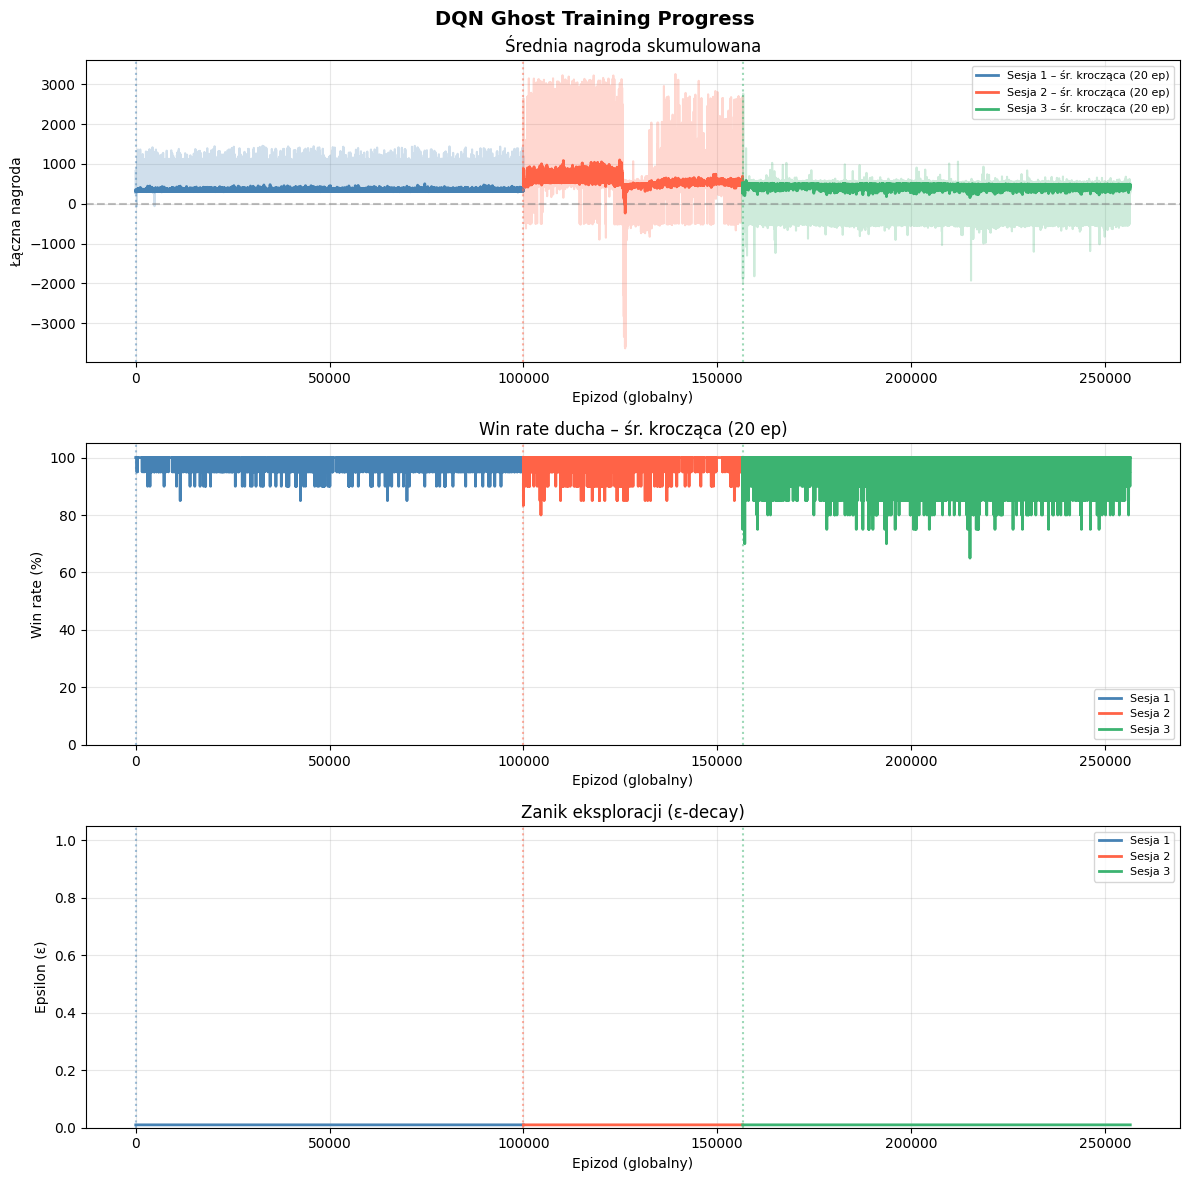
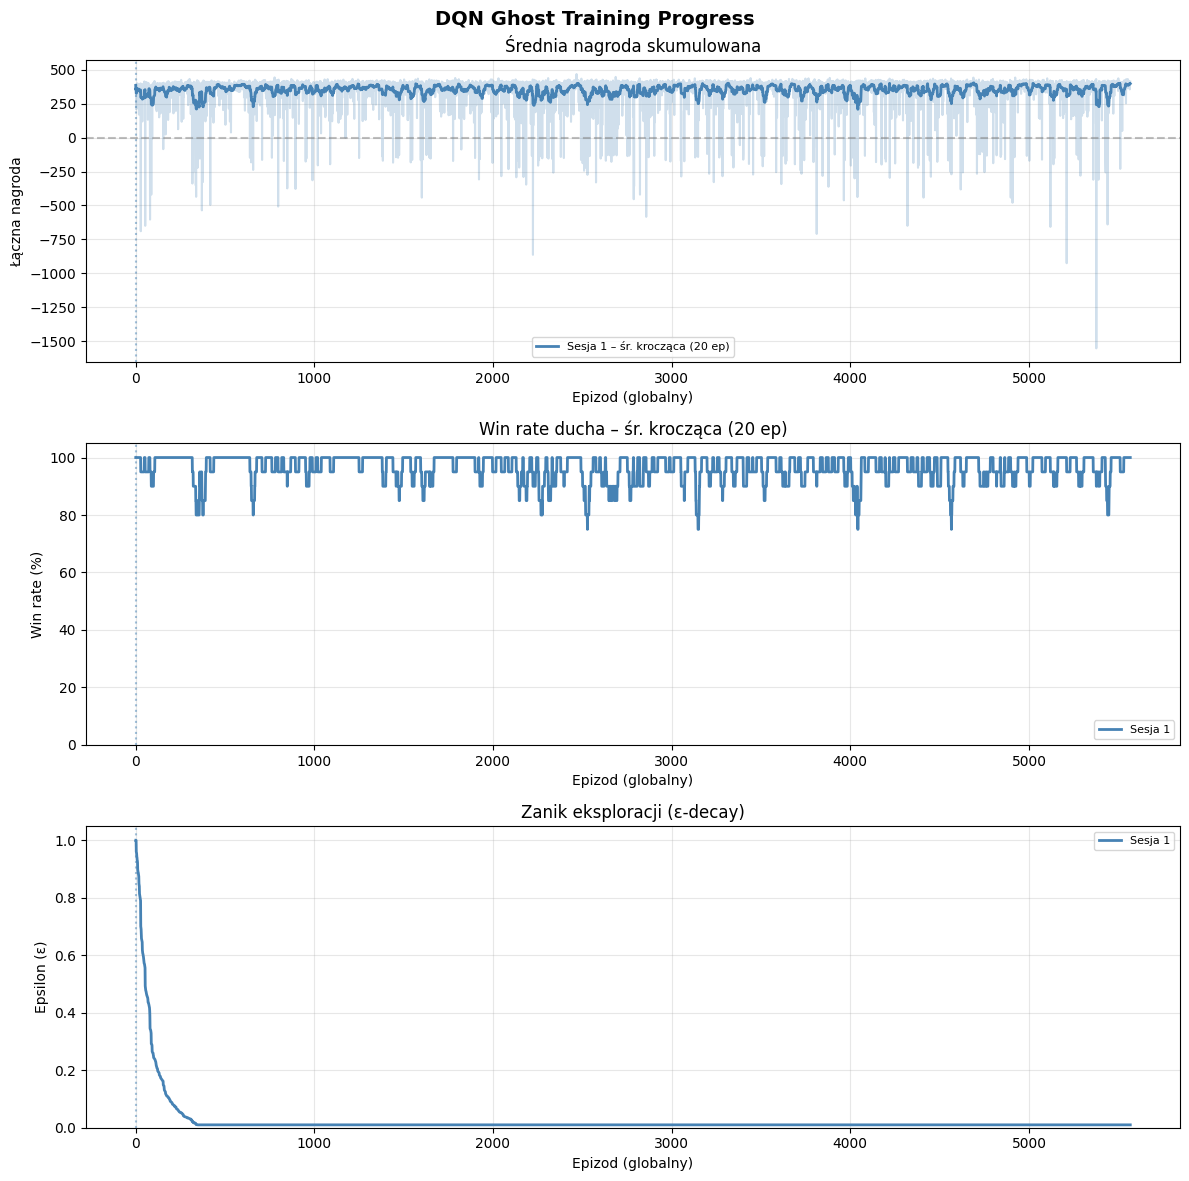
nowe system kar nagrod

diff --git a/frontend/index.html b/frontend/index.html
@@ -246,7 +246,7 @@
           <div class="train-level-group">
             <button class="train-lvl-btn active" id="trainEpBtn1000"  onclick="onTrainEpSelect(1000)">1K</button>
             <button class="train-lvl-btn"        id="trainEpBtn10000" onclick="onTrainEpSelect(10000)">10K</button>
-            <button class="train-lvl-btn"        id="trainEpBtn100000" onclick="onTrainEpSelect(100000)">100K</button>
+            <button class="train-lvl-btn"        id="trainEpBtn50000" onclick="onTrainEpSelect(50000)">50K</button>
           </div>
         </div>
         <div class="input-row">

diff --git a/frontend/game.js b/frontend/game.js
@@ -1161,7 +1161,7 @@ async function onToggleOnlineLearning(checkbox) {
 
 function onTrainEpSelect(ep) {
   App._trainEpisodes = ep;
-  [1000, 10000, 100000].forEach(v => {
+  [1000, 10000, 500000].forEach(v => {
     const btn = document.getElementById(`trainEpBtn${v}`);
     if (btn) btn.classList.toggle("active", v === ep);
   });

diff --git a/backend/environment.py b/backend/environment.py
@@ -22,7 +22,7 @@ PRZESTRZEŃ AKCJI (4 ruchy):
     2 – góra   (row - 1)
     3 – dół    (row + 1)
 
-PRZESTRZEŃ STANÓW (wektor 15 cech):
+PRZESTRZEŃ STANÓW (wektor 16 cech):
     [0]  ghost_row / (ROWS-1)                          – znorm. wiersz duszka
     [1]  ghost_col / (COLS-1)                          – znorm. kolumna duszka
     [2]  pacman_row / (ROWS-1)                         – znorm. wiersz Pac-Mana
@@ -38,6 +38,7 @@ PRZESTRZEŃ STANÓW (wektor 15 cech):
     [12] wall_down_pacman                              – ściana pod Pac-Manem
     [13] wall_left_pacman                              – ściana po lewej Pac-Mana
     [14] wall_right_pacman                             – ściana po prawej Pac-Mana
+    [15] power_timer / 50                              – znorm. czas power mode
 
 FUNKCJA NAGRODY (dla duszka):
     +100.0  – złapanie Pac-Mana (koniec epizodu)
@@ -56,7 +57,7 @@ import numpy as np
 # STAŁE
 # ---------------------------------------------------------------------------
 ROWS, COLS = 19, 19
-STATE_SIZE = 15    # długość wektora stanu
+STATE_SIZE = 16    # długość wektora stanu
 ACTION_SIZE = 4    # liczba możliwych akcji
 
 # Kierunki: (delta_row, delta_col)
@@ -180,7 +181,7 @@ REWARD_PROFILES = {
         "ghost_eaten":       -40.0,
         "timeout_penalty":  -200.0,
         "pacman_won":       -200.0,
-        "backtrack_penalty":  -3.0,
+        "backtrack_penalty": -10.0,
     },
     2: {
         # Standardowy – zbalansowane wartości (domyślny)
@@ -190,7 +191,7 @@ REWARD_PROFILES = {
         "ghost_eaten":       -50.0,
         "timeout_penalty":   -50.0,
         "pacman_won":        -50.0,
-        "backtrack_penalty":  -3.0,
+        "backtrack_penalty":  -8.0,
     },
     3: {
         # Cierpliwy – ostrożny, bardzo boi się być zjedzonym
@@ -201,7 +202,7 @@ REWARD_PROFILES = {
         "ghost_eaten":      -150.0,
         "timeout_penalty":   -50.0,
         "pacman_won":        -50.0,
-        "backtrack_penalty":  -3.0,
+        "backtrack_penalty":  -10.0,
     },
 }
 
@@ -521,14 +522,11 @@ class PacmanEnvironment:
     # -----------------------------------------------------------------------
     def get_autopilot_action(self) -> int:
         """
-        Prosta heurystyka ucieczki Pac-Mana do użytku w trybie automatycznego
-        treningu (bez udziału gracza).
+        Heurystyka ruchu Pac-Mana w trybie automatycznego treningu.
 
-        Strategia:
-        1. Wyznacz kierunek od duszka do Pac-Mana.
-        2. Preferuj ruch w kierunku przeciwnym do duszka (ucieczka).
-        3. Jeśli ucieczka jest zablokowana ścianą, wybierz losowy dostępny ruch.
-        4. Nie zawracaj, jeśli masz inną opcję.
+        Tryb normalny: ucieka od duszka (maksymalizuje dystans Manhattan).
+        Power mode:    goni duszka (minimalizuje dystans Manhattan), by duszek
+                       uczył się aktywnej ucieczki przed pościgiem gracza.
 
         Returns:
             Akcja (0–3) dla Pac-Mana.
@@ -536,20 +534,8 @@ class PacmanEnvironment:
         pr, pc = self.pacman_row, self.pacman_col
         gr, gc = self.ghost_row,  self.ghost_col
 
-        dr = pr - gr  # ujemna → duszek jest poniżej Pac-Mana
-        dc = pc - gc  # ujemna → duszek jest po prawej Pac-Mana
-
-        # Kierunki ucieczki (od duszka): jeśli duszek jest na dole,
-        # Pac-Man chce iść w górę (dr > 0 → akcja góra = 2)
-        escape_actions = []
-        if dr > 0:
-            escape_actions.append(2)   # góra (uciekaj od duszka poniżej)
-        elif dr < 0:
-            escape_actions.append(3)   # dół
-        if dc > 0:
-            escape_actions.append(1)   # lewo (uciekaj od duszka po prawej)
-        elif dc < 0:
-            escape_actions.append(0)   # prawo
+        dr = pr - gr
+        dc = pc - gc
 
         # Filtruj do dostępnych (niesciennych) ruchów
         valid_actions = [a for a in range(ACTION_SIZE)
@@ -561,35 +547,60 @@ class PacmanEnvironment:
         if non_backtrack:
             valid_actions = non_backtrack
 
-        # Preferuj kierunki ucieczki — wybierz ten który maksymalizuje dystans od duszka
-        preferred = [a for a in escape_actions if a in valid_actions]
-        if preferred:
-            best, best_dist = preferred[0], -1
-            for a in preferred:
+        if not valid_actions:
+            return self.pacman_last_action
+
+        if self.power_mode:
+            # POWER MODE: Pac-Man goni duszka — wybiera ruch minimalizujący dystans
+            chase_actions = []
+            if dr > 0:
+                chase_actions.append(3)   # dół (w kierunku duszka poniżej)
+            elif dr < 0:
+                chase_actions.append(2)   # góra
+            if dc > 0:
+                chase_actions.append(0)   # prawo (w kierunku duszka po prawej)
+            elif dc < 0:
+                chase_actions.append(1)   # lewo
+
+            preferred = [a for a in chase_actions if a in valid_actions]
+            candidates = preferred if preferred else valid_actions
+
+            best, best_dist = candidates[0], float("inf")
+            for a in candidates:
                 dr2, dc2 = ACTION_DELTAS[a]
-                nr = (self.pacman_row + dr2) % ROWS
-                nc = (self.pacman_col + dc2) % COLS
-                d = abs(nr - self.ghost_row) + abs(nc - self.ghost_col)
-                if d > best_dist:
+                nr = (pr + dr2) % ROWS
+                nc = (pc + dc2) % COLS
+                d = abs(nr - gr) + abs(nc - gc)
+                if d < best_dist:
                     best_dist = d
                     best = a
             return best
 
-        # Fallback: wybierz ruch który najbardziej oddala od duszka
-        if valid_actions:
-            best, best_dist = valid_actions[0], -1
-            for a in valid_actions:
+        else:
+            # TRYB NORMALNY: Pac-Man ucieka od duszka — maksymalizuje dystans
+            escape_actions = []
+            if dr > 0:
+                escape_actions.append(2)   # góra (od duszka poniżej)
+            elif dr < 0:
+                escape_actions.append(3)   # dół
+            if dc > 0:
+                escape_actions.append(1)   # lewo (od duszka po prawej)
+            elif dc < 0:
+                escape_actions.append(0)   # prawo
+
+            preferred = [a for a in escape_actions if a in valid_actions]
+            candidates = preferred if preferred else valid_actions
+
+            best, best_dist = candidates[0], -1
+            for a in candidates:
                 dr2, dc2 = ACTION_DELTAS[a]
-                nr = (self.pacman_row + dr2) % ROWS
-                nc = (self.pacman_col + dc2) % COLS
-                d = abs(nr - self.ghost_row) + abs(nc - self.ghost_col)
+                nr = (pr + dr2) % ROWS
+                nc = (pc + dc2) % COLS
+                d = abs(nr - gr) + abs(nc - gc)
                 if d > best_dist:
                     best_dist = d
                     best = a
             return best
-
-        # Ostateczność: oddaj poprzednią akcję
-        return self.pacman_last_action
 
     # -----------------------------------------------------------------------
     # METODY POMOCNICZE – RUCH

diff --git a/backend/app.py b/backend/app.py
@@ -249,6 +249,16 @@ def step():
         # Akcja duszka z modelu DQN (ε=0 → zawsze greedy w trybie gry)
         ghost_action, q_values = agent.select_action_with_qvalues(current_state)
 
+        # Maskowanie ścian: nie wybieraj ruchów niemożliwych (action masking)
+        valid_moves = game_env.get_valid_ghost_actions()
+        if ghost_action not in valid_moves and valid_moves:
+            q_adj = list(q_values)
+            for _a in range(4):
+                if _a not in valid_moves:
+                    q_adj[_a] = -1e9
+            ghost_action = int(q_adj.index(max(q_adj)))
+            q_values = q_adj
+
         # Krok środowiska
         next_state, reward, done, info = game_env.step(ghost_action, pacman_action)
 
@@ -359,8 +369,8 @@ def start_training():
     level      = int(data.get("level",       1))
     slot       = int(data.get("model_slot",  current_model_slot))
 
-    if episodes < 1 or episodes > 100_000:
-        return jsonify({"error": "episodes musi być w zakresie 1–100000"}), 400
+    if episodes < 1 or episodes > 500_000:
+        return jsonify({"error": "episodes musi być w zakresie 1–500000"}), 400
     if level not in (1, 2, 3):
         level = 1
     if slot not in MODEL_SLOTS:
